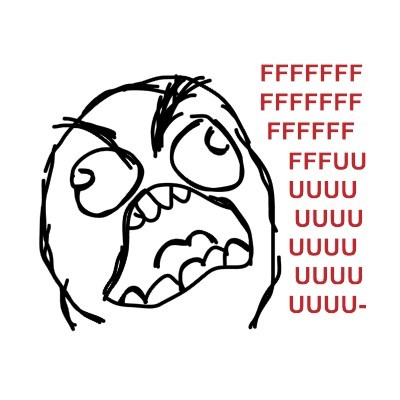
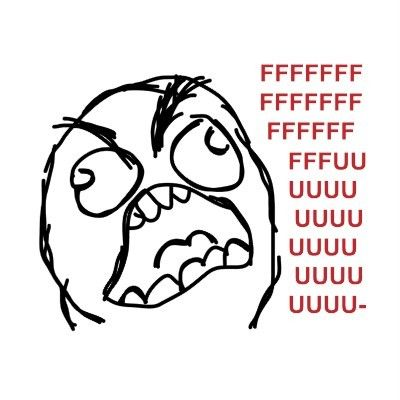
compressed some images

diff --git a/scripts/display.js b/scripts/display.js
@@ -1,3 +1,5 @@
+/*jshint esversion: 6 */
+
 const button = document.getElementById("mainButton");
 const anker = document.getElementById("toastAnker");
 const wrapper = document.getElementById("wrapper");
@@ -239,7 +241,7 @@ function displayToast(string, effectClass, unstackable = false) {
       //set the width of our message counter
       anime.set(atoast[1], {
         right: (-atoast[5] - 1.2) + 'rem'
-      })
+      });
 
       //ease the width of our toast message
       anime({
@@ -247,7 +249,7 @@ function displayToast(string, effectClass, unstackable = false) {
         'margin-right': (atoast[5] + 1.2) + 'rem',
         duration: 250,
         easing: 'easeInOutSine'
-      })
+      });
     }
 
     anime.timeline({
@@ -271,27 +273,27 @@ function displayToast(string, effectClass, unstackable = false) {
       scale: 0.2,
       opacity: 0,
       duration: 1000
-    })
+    });
   } else {
     newToast(string, effectClass);
   }
 }
 
-const toastBase = document.createElement("div");
-const clickCounter = document.createElement("div");
+var toastBase = document.createElement("div");
+var clickCounter = document.createElement("div");
 
 function newToast(string, effectClass) {
   // prevent extreme amounts of comment messages
   if (anker.childElementCount > MAX_TOASTS)
     anker.lastElementChild.remove();
 
-  const toast = toastBase.cloneNode(true);
-  const count = clickCounter.cloneNode(true);
+  var toast = toastBase.cloneNode(true);
+  var count = clickCounter.cloneNode(true);
   //function that hides, animates and deletes the toast when executed
   function funkyFunc() {
-    toast.classList.add("hide")
+    toast.classList.add("hide");
     delete activeToasts[string + "\n" + effectClass];
-    const animation = anime({
+    var animation = anime({
       targets: toast,
       delay: 500,
       duration: 250,
@@ -301,7 +303,7 @@ function newToast(string, effectClass) {
       'max-height': 0,
       opacity: 0,
       easing: 'easeInSine'
-    })
+    });
     // toast.remove has to be evaluated while in DOM, otherwise undefined?
     animation.finished.then(() => toast.remove());
   }

diff --git a/styles/betterstyle.css b/styles/betterstyle.css
@@ -337,8 +337,8 @@ td {
 
 .toast.hide:after,
 .hoverline:after {
-  transform-origin: 100% 50%;
   transform: scaleX(0);
+  transform-origin: 100% 50%;
 }
 
 .hoverline:after {
